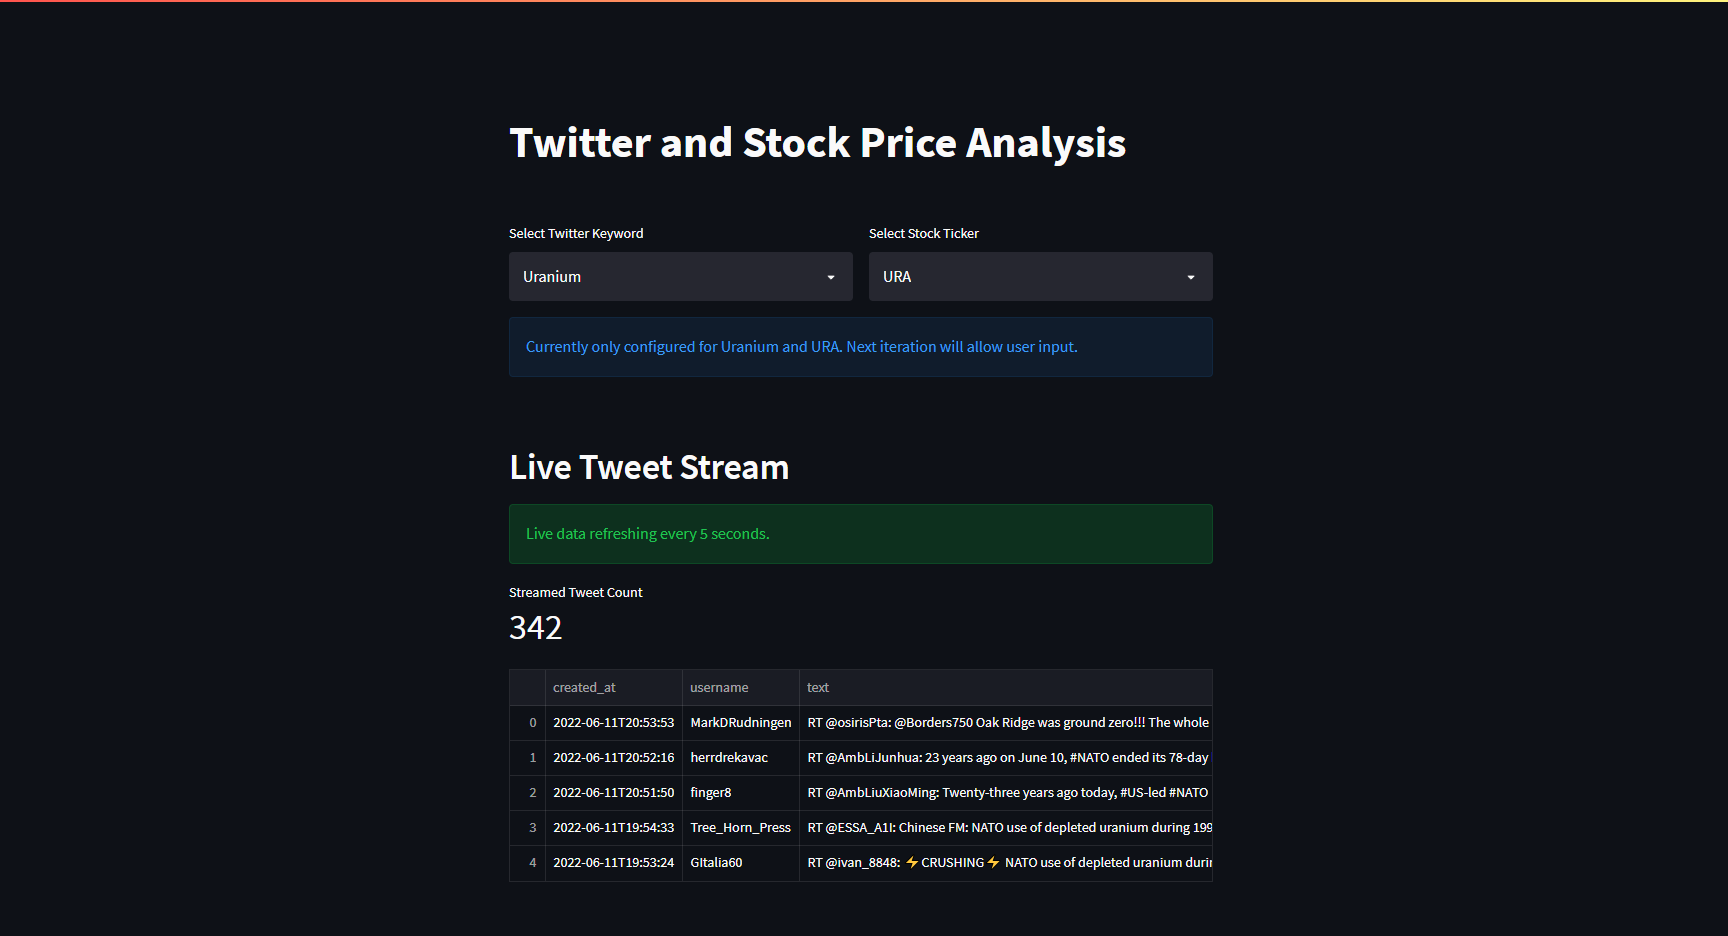
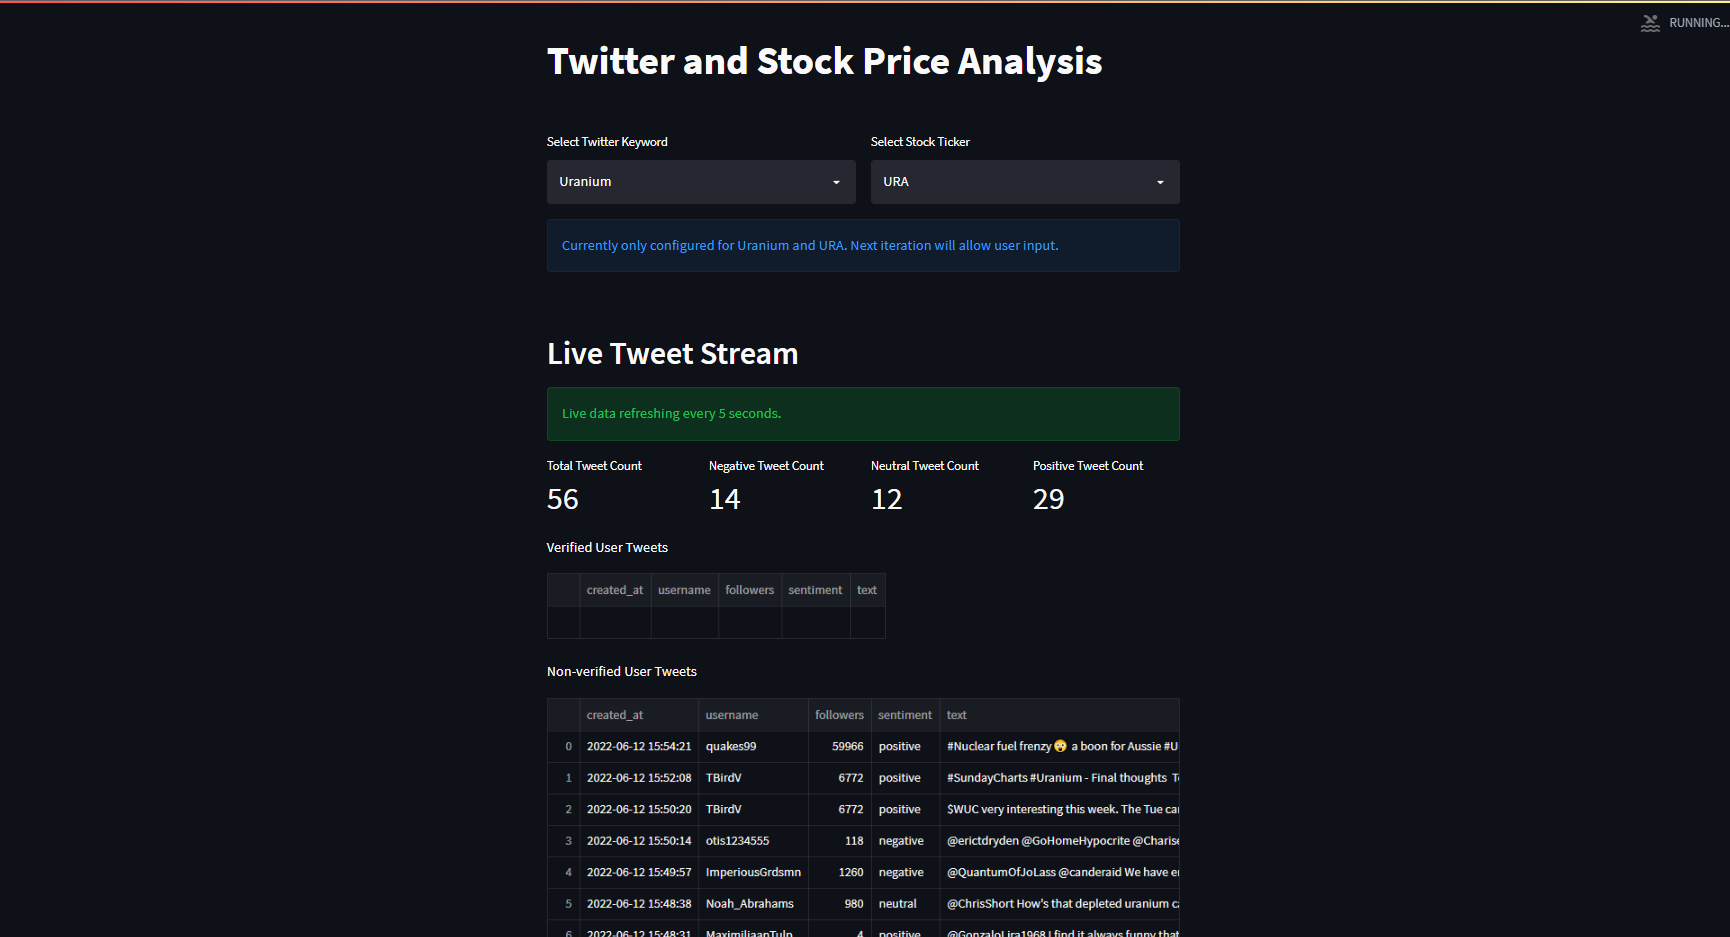
finished

diff --git a/app/streamlit/styles.css b/app/streamlit/styles.css
@@ -1,0 +1,3 @@
+div[data-testid="metric-container"] > div {
+    border: gray;
+}

diff --git a/app/streamlit/app.py b/app/streamlit/app.py
@@ -14,7 +14,7 @@ def get_stream_tweet_data() -> pd.DataFrame:
 
     with db_interface.DBConnection(config.get_stream_creds()).managed_cursor() as curr:
         curr.execute(
-            "SELECT created_at, username, verified_user, followers, text FROM tweet_stream ORDER BY created_at DESC;"
+            "SELECT twitter_id, created_at, username, verified_user, followers, sentiment, text FROM tweet_stream ORDER BY created_at DESC;"
         )
         data = curr.fetchall()
         cols = [i[0] for i in curr.description]
@@ -136,21 +136,48 @@ def main():
     st.write("#")
     st.header("Live Tweet Stream")
     st.success("Live data refreshing every 5 seconds.")
-    with st.empty():
-        stream_tweet_count = get_stream_tweet_count()
-        st.metric(
-            "Streamed Tweet Count",
-            stream_tweet_count,
-        )
 
     stream_tweet_data = get_stream_tweet_data()
+
+    col1, col2, col3, col4 = st.columns(4)
+    with col1:
+        total_stream_count = stream_tweet_data["twitter_id"].count()
+        st.metric(
+            "Total Tweet Count",
+            total_stream_count,
+        )
+    with col2:
+        negative_stream_count = stream_tweet_data[
+            stream_tweet_data["sentiment"] == "negative"
+        ]["twitter_id"].count()
+        st.metric(
+            "Negative Tweet Count",
+            negative_stream_count,
+        )
+    with col3:
+        neutral_stream_count = stream_tweet_data[
+            stream_tweet_data["sentiment"] == "neutral"
+        ]["twitter_id"].count()
+        st.metric(
+            "Neutral Tweet Count",
+            neutral_stream_count,
+        )
+    with col4:
+        positive_stream_count = stream_tweet_data[
+            stream_tweet_data["sentiment"] == "positive"
+        ]["twitter_id"].count()
+        st.metric(
+            "Positive Tweet Count",
+            positive_stream_count,
+        )
+
     st.write("Verified User Tweets")
     with st.empty():
         filtered_stream_tweet_data = stream_tweet_data[
             stream_tweet_data["verified_user"]
         ]
         filtered_stream_tweet_data = filtered_stream_tweet_data[
-            ["created_at", "username", "followers", "text"]
+            ["created_at", "username", "followers", "sentiment", "text"]
         ]
         st.dataframe(filtered_stream_tweet_data)
     st.write("Non-verified User Tweets")
@@ -159,7 +186,7 @@ def main():
             ~stream_tweet_data["verified_user"]
         ]
         filtered_stream_tweet_data = filtered_stream_tweet_data[
-            ["created_at", "username", "followers", "text"]
+            ["created_at", "username", "followers", "sentiment", "text"]
         ]
         st.dataframe(filtered_stream_tweet_data)
 
@@ -227,6 +254,9 @@ def main():
     time.sleep(5)
     st.experimental_rerun()
 
+
+# with open("styles.css") as f:
+#     st.markdown(f"<style>{f.read()}</style>", unsafe_allow_html=True)
 
 warnings.filterwarnings("ignore", category=DeprecationWarning)
 st.set_page_config(page_title="Twitter and Stock Price Analysis", page_icon="🚀")

diff --git a/app/consumer/utils/twitter_interface.py b/app/consumer/utils/twitter_interface.py
@@ -24,27 +24,6 @@ class TwitterConnection(object):
         except:
             print("Error: Auth failed")
 
-    def clean_tweet(self, tweet):
-        """Utility function to clean tweet text by removing links and special characters using simple regex statements."""
-
-        return " ".join(
-            re.sub(
-                "(@[A-Za-z0-9]+)|([^0-9A-Za-z \t])|(\w+:\/\/\S+)", " ", tweet
-            ).split()
-        )
-
-    def get_tweet_sentiment(self, tweet):
-        """Utility function to classify sentiment of passed tweet using textblob's sentiment method."""
-
-        analysis = TextBlob(self.clean_tweet(tweet))
-
-        if analysis.sentiment.polarity > 0:
-            return "positive"
-        elif analysis.sentiment.polarity == 0:
-            return "neutral"
-        else:
-            return "negative"
-
     def get_tweets(
         self, query: str, count: int = 1000, until: str = None
     ) -> Tuple[List, List]:
@@ -72,7 +51,7 @@ class TwitterConnection(object):
                     "username": tweet.user.name,
                     "text": tweet.text,
                     "created_at": datetime.strftime(tweet.created_at, "%Y%m%d"),
-                    "sentiment": self.get_tweet_sentiment(tweet.text),
+                    "sentiment": get_tweet_sentiment(tweet.text),
                 }
 
                 # If tweet has retweets, ensure it only gets appended once.
@@ -88,3 +67,24 @@ class TwitterConnection(object):
 
         except tw.TweepError as error:
             print("Error : " + str(error))
+
+
+def clean_tweet(tweet: str) -> str:
+    """Utility function to clean tweet text by removing links and special characters using simple regex statements."""
+
+    return " ".join(
+        re.sub("(@[A-Za-z0-9]+)|([^0-9A-Za-z \t])|(\w+:\/\/\S+)", " ", tweet).split()
+    )
+
+
+def get_tweet_sentiment(tweet: str) -> str:
+    """Utility function to classify sentiment of passed tweet using textblob's sentiment method."""
+
+    analysis = TextBlob(clean_tweet(tweet))
+
+    if analysis.sentiment.polarity > 0:
+        return "positive"
+    elif analysis.sentiment.polarity == 0:
+        return "neutral"
+    else:
+        return "negative"

diff --git a/app/producer/utils/twitter_interface.py b/app/producer/utils/twitter_interface.py
@@ -24,27 +24,6 @@ class TwitterConnection(object):
         except:
             print("Error: Auth failed")
 
-    def clean_tweet(self, tweet):
-        """Utility function to clean tweet text by removing links and special characters using simple regex statements."""
-
-        return " ".join(
-            re.sub(
-                "(@[A-Za-z0-9]+)|([^0-9A-Za-z \t])|(\w+:\/\/\S+)", " ", tweet
-            ).split()
-        )
-
-    def get_tweet_sentiment(self, tweet):
-        """Utility function to classify sentiment of passed tweet using textblob's sentiment method."""
-
-        analysis = TextBlob(self.clean_tweet(tweet))
-
-        if analysis.sentiment.polarity > 0:
-            return "positive"
-        elif analysis.sentiment.polarity == 0:
-            return "neutral"
-        else:
-            return "negative"
-
     def get_tweets(
         self, query: str, count: int = 1000, until: str = None
     ) -> Tuple[List, List]:
@@ -72,7 +51,7 @@ class TwitterConnection(object):
                     "username": tweet.user.name,
                     "text": tweet.text,
                     "created_at": datetime.strftime(tweet.created_at, "%Y%m%d"),
-                    "sentiment": self.get_tweet_sentiment(tweet.text),
+                    "sentiment": get_tweet_sentiment(tweet.text),
                 }
 
                 # If tweet has retweets, ensure it only gets appended once.
@@ -88,3 +67,24 @@ class TwitterConnection(object):
 
         except tw.TweepError as error:
             print("Error : " + str(error))
+
+
+def clean_tweet(tweet: str) -> str:
+    """Utility function to clean tweet text by removing links and special characters using simple regex statements."""
+
+    return " ".join(
+        re.sub("(@[A-Za-z0-9]+)|([^0-9A-Za-z \t])|(\w+:\/\/\S+)", " ", tweet).split()
+    )
+
+
+def get_tweet_sentiment(tweet: str) -> str:
+    """Utility function to classify sentiment of passed tweet using textblob's sentiment method."""
+
+    analysis = TextBlob(clean_tweet(tweet))
+
+    if analysis.sentiment.polarity > 0:
+        return "positive"
+    elif analysis.sentiment.polarity == 0:
+        return "neutral"
+    else:
+        return "negative"

diff --git a/app/streamlit/utils/twitter_interface.py b/app/streamlit/utils/twitter_interface.py
@@ -24,27 +24,6 @@ class TwitterConnection(object):
         except:
             print("Error: Auth failed")
 
-    def clean_tweet(self, tweet):
-        """Utility function to clean tweet text by removing links and special characters using simple regex statements."""
-
-        return " ".join(
-            re.sub(
-                "(@[A-Za-z0-9]+)|([^0-9A-Za-z \t])|(\w+:\/\/\S+)", " ", tweet
-            ).split()
-        )
-
-    def get_tweet_sentiment(self, tweet):
-        """Utility function to classify sentiment of passed tweet using textblob's sentiment method."""
-
-        analysis = TextBlob(self.clean_tweet(tweet))
-
-        if analysis.sentiment.polarity > 0:
-            return "positive"
-        elif analysis.sentiment.polarity == 0:
-            return "neutral"
-        else:
-            return "negative"
-
     def get_tweets(
         self, query: str, count: int = 1000, until: str = None
     ) -> Tuple[List, List]:
@@ -72,7 +51,7 @@ class TwitterConnection(object):
                     "username": tweet.user.name,
                     "text": tweet.text,
                     "created_at": datetime.strftime(tweet.created_at, "%Y%m%d"),
-                    "sentiment": self.get_tweet_sentiment(tweet.text),
+                    "sentiment": get_tweet_sentiment(tweet.text),
                 }
 
                 # If tweet has retweets, ensure it only gets appended once.
@@ -88,3 +67,24 @@ class TwitterConnection(object):
 
         except tw.TweepError as error:
             print("Error : " + str(error))
+
+
+def clean_tweet(tweet: str) -> str:
+    """Utility function to clean tweet text by removing links and special characters using simple regex statements."""
+
+    return " ".join(
+        re.sub("(@[A-Za-z0-9]+)|([^0-9A-Za-z \t])|(\w+:\/\/\S+)", " ", tweet).split()
+    )
+
+
+def get_tweet_sentiment(tweet: str) -> str:
+    """Utility function to classify sentiment of passed tweet using textblob's sentiment method."""
+
+    analysis = TextBlob(clean_tweet(tweet))
+
+    if analysis.sentiment.polarity > 0:
+        return "positive"
+    elif analysis.sentiment.polarity == 0:
+        return "neutral"
+    else:
+        return "negative"

diff --git a/app/utils/twitter_interface.py b/app/utils/twitter_interface.py
@@ -24,27 +24,6 @@ class TwitterConnection(object):
         except:
             print("Error: Auth failed")
 
-    def clean_tweet(self, tweet):
-        """Utility function to clean tweet text by removing links and special characters using simple regex statements."""
-
-        return " ".join(
-            re.sub(
-                "(@[A-Za-z0-9]+)|([^0-9A-Za-z \t])|(\w+:\/\/\S+)", " ", tweet
-            ).split()
-        )
-
-    def get_tweet_sentiment(self, tweet):
-        """Utility function to classify sentiment of passed tweet using textblob's sentiment method."""
-
-        analysis = TextBlob(self.clean_tweet(tweet))
-
-        if analysis.sentiment.polarity > 0:
-            return "positive"
-        elif analysis.sentiment.polarity == 0:
-            return "neutral"
-        else:
-            return "negative"
-
     def get_tweets(
         self, query: str, count: int = 1000, until: str = None
     ) -> Tuple[List, List]:
@@ -72,7 +51,7 @@ class TwitterConnection(object):
                     "username": tweet.user.name,
                     "text": tweet.text,
                     "created_at": datetime.strftime(tweet.created_at, "%Y%m%d"),
-                    "sentiment": self.get_tweet_sentiment(tweet.text),
+                    "sentiment": get_tweet_sentiment(tweet.text),
                 }
 
                 # If tweet has retweets, ensure it only gets appended once.
@@ -88,3 +67,24 @@ class TwitterConnection(object):
 
         except tw.TweepError as error:
             print("Error : " + str(error))
+
+
+def clean_tweet(tweet: str) -> str:
+    """Utility function to clean tweet text by removing links and special characters using simple regex statements."""
+
+    return " ".join(
+        re.sub("(@[A-Za-z0-9]+)|([^0-9A-Za-z \t])|(\w+:\/\/\S+)", " ", tweet).split()
+    )
+
+
+def get_tweet_sentiment(tweet: str) -> str:
+    """Utility function to classify sentiment of passed tweet using textblob's sentiment method."""
+
+    analysis = TextBlob(clean_tweet(tweet))
+
+    if analysis.sentiment.polarity > 0:
+        return "positive"
+    elif analysis.sentiment.polarity == 0:
+        return "neutral"
+    else:
+        return "negative"

diff --git a/app/consumer/consumer.py b/app/consumer/consumer.py
@@ -3,7 +3,7 @@ from datetime import datetime
 
 from kafka import KafkaConsumer
 
-from utils import config, db_interface
+from utils import config, db_interface, twitter_interface
 
 TOPIC_NAME = "TWEET_STREAM"
 
@@ -42,6 +42,7 @@ def stream_tweets_consume() -> None:
                 "created_at": tweet["created_at"],
                 "verified_user": tweet["user"]["verified"],
                 "followers": tweet["user"]["followers_count"],
+                "sentiment": twitter_interface.get_tweet_sentiment(text),
             }
         ]
 

diff --git a/app/create_all_tables.py b/app/create_all_tables.py
@@ -69,6 +69,7 @@ def init_twitter_streaming_table() -> None:
             created_at TIMESTAMP,
             verified_user BOOLEAN,
             followers INTEGER,
+            sentiment TEXT,
             PRIMARY KEY(id)
             );
         """

diff --git a/readme.md b/readme.md
@@ -6,6 +6,10 @@ Tool for users to analyze and explore the relationship between investor sentimen
 
 The first section shows a real-time stream of tweets.
 
+- Count of tweets streamed
+- Verified user tweets
+- Non-verified user tweets
+
 The second section shows two timeseries charts.
 
 - stock ticker's chart
